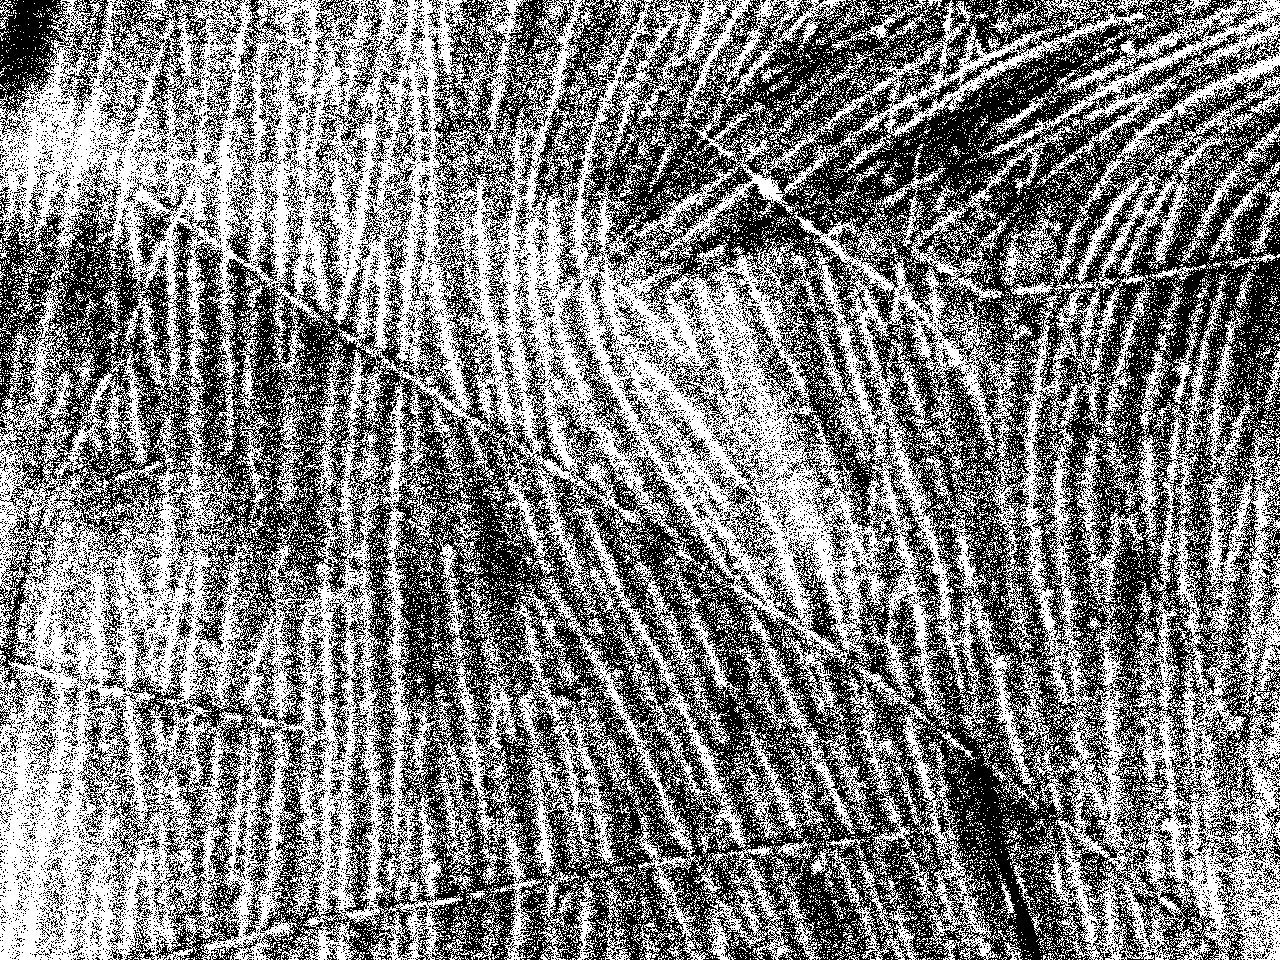
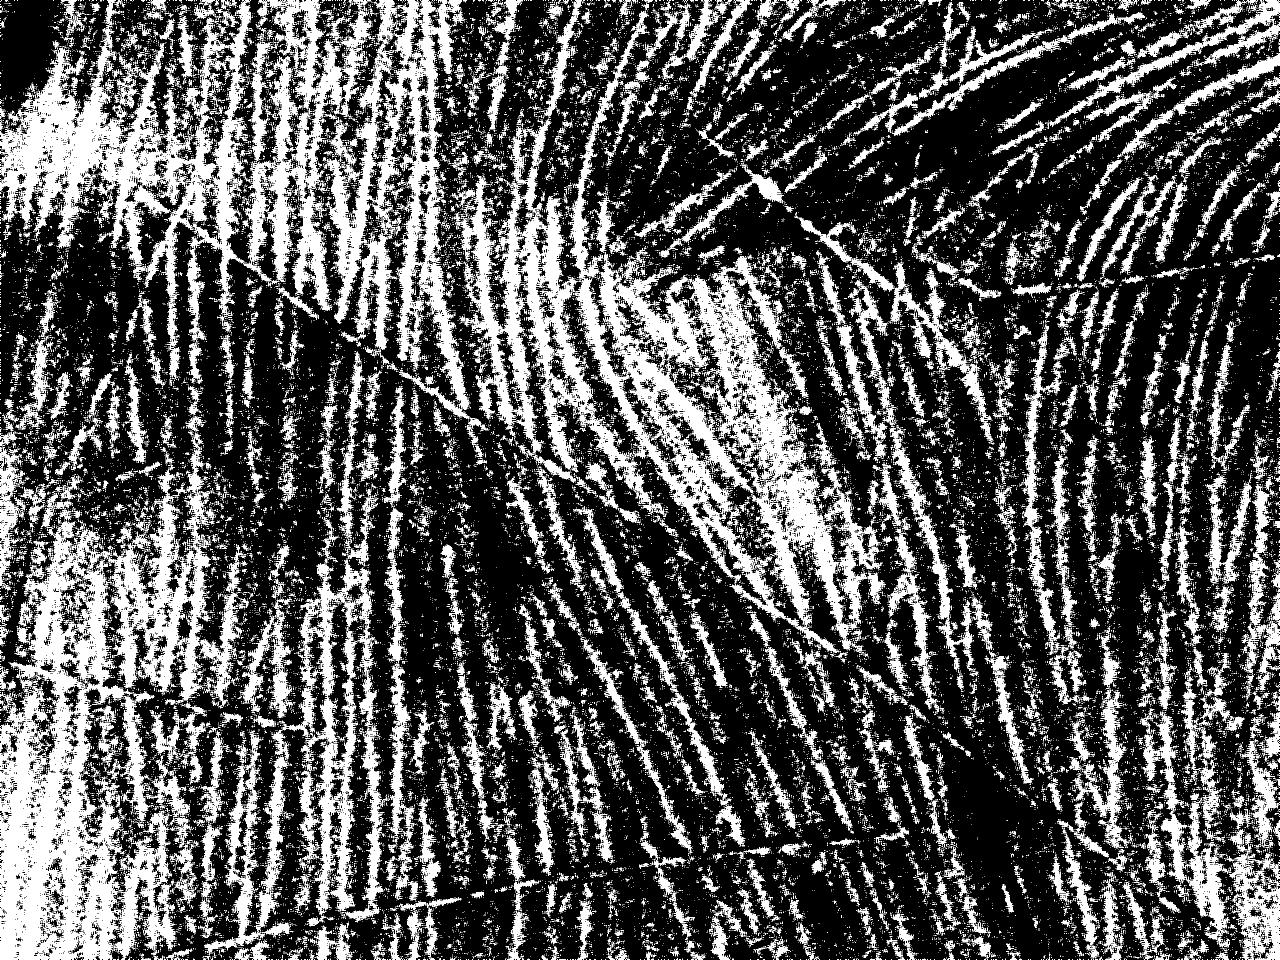
trying some new stuff

diff --git a/CNT Counter/src/drivers/UI.java b/CNT Counter/src/drivers/UI.java
@@ -4,7 +4,6 @@ import java.awt.Color;
 import java.awt.Component;
 import java.awt.Container;
 import java.awt.Dimension;
-import java.awt.FlowLayout;
 import java.awt.Font;
 import java.awt.GridLayout;
 import java.awt.Toolkit;
@@ -12,18 +11,13 @@ import java.awt.event.ActionEvent;
 import java.awt.event.ActionListener;
 import java.awt.event.ComponentEvent;
 import java.awt.event.ComponentListener;
-import java.awt.image.BufferedImage;
 import java.io.File;
-import java.io.IOException;
-import java.util.Scanner;
 
-import javax.imageio.ImageIO;
 import javax.swing.ImageIcon;
 import javax.swing.JButton;
 import javax.swing.JFileChooser;
 import javax.swing.JFrame;
 import javax.swing.JLabel;
-import javax.swing.JPanel;
 import javax.swing.JTextField;
 import javax.swing.SwingConstants;
 import javax.swing.SwingUtilities;
@@ -31,10 +25,7 @@ import javax.swing.UIManager;
 import javax.swing.UnsupportedLookAndFeelException;
 import javax.swing.WindowConstants;
 import javax.swing.filechooser.FileNameExtensionFilter;
-import javax.swing.filechooser.FileSystemView;
 
-import utils.CannyEdgeDetector;
-import utils.ImageUtils;
 import utils.TubeDetector;
 
 public class UI{
@@ -52,7 +43,7 @@ public class UI{
         fileButton.addActionListener(new ActionListener() {
 			@Override
 			public void actionPerformed(ActionEvent event) {
-				JFileChooser fc = new JFileChooser();
+				JFileChooser fc = new JFileChooser("C:\\Users\\quinn\\Documents\\git\\CNT Counter\\images");
 				fc.setDialogTitle("Open Image");
 				fc.setPreferredSize(new Dimension((int)(frame.getWidth() * 1.5), frame.getHeight()));
 				setFileChooserFont(fc.getComponents());
@@ -93,9 +84,8 @@ public class UI{
 					errorLabel.setForeground(Color.RED);
 					errorLabel.setText("<html><center>Strength must be a</center><center>nonnegative integer</center></html>");
 				} else {
-					errorLabel.setForeground(Color.BLACK);
-					errorLabel.setText("Working...");
 					int tubes = TubeDetector.density(file, strength);
+					errorLabel.setForeground(new Color(0, 153, 0));
 					errorLabel.setText("Density: " + tubes);
 				}
 			}
@@ -162,18 +152,15 @@ public class UI{
     	try {
 			UIManager.setLookAndFeel(UIManager.getSystemLookAndFeelClassName());
 		} catch (ClassNotFoundException e) {
-			// TODO Auto-generated catch block
 			e.printStackTrace();
 		} catch (InstantiationException e) {
-			// TODO Auto-generated catch block
 			e.printStackTrace();
 		} catch (IllegalAccessException e) {
-			// TODO Auto-generated catch block
 			e.printStackTrace();
 		} catch (UnsupportedLookAndFeelException e) {
-			// TODO Auto-generated catch block
 			e.printStackTrace();
 		}
+    	
     	SwingUtilities.invokeLater(new Runnable() {
             public void run() {
             	new UI();

diff --git a/CNT Counter/src/utils/TubeDetector.java b/CNT Counter/src/utils/TubeDetector.java
@@ -15,6 +15,9 @@ public class TubeDetector {
 		int width = img.getWidth();
 		int height = img.getHeight();
 		
+		Graphics2D g2d = img.createGraphics();
+		g2d.setColor(Color.blue);
+		
 		ArrayList<Integer> tubesPerRow = new ArrayList<Integer>();
 		for (int i = 2; i < height - 2; i++) {
 			int tubes = 0;
@@ -23,8 +26,11 @@ public class TubeDetector {
 				Color current = new Color(img.getRGB(j, i));
 				int curr = current.getRed();
 				if (curr < 100) {
-					if (inTube > 0) {
+					if (inTube > 2) {
 						tubes++;
+						if (tubesPerRow.size() == 800) {
+							g2d.fillRect(j - (inTube / 2), 0, 8, height);
+						}
 					}
 					inTube = 0;
 				} else {
@@ -33,6 +39,7 @@ public class TubeDetector {
 			}
 			tubesPerRow.add(tubes);
 		}
+		g2d.fillRect(0, 800, width, 5);
 		
 		return tubesPerRow.get(tubesPerRow.size() / 2);
 	}
@@ -56,7 +63,7 @@ public class TubeDetector {
 				if (curr < 100) {
 					if (inTube > 4) {
 						tubes++;
-						g2d.fillRect(j - (inTube / 2) - 3, i, 3, 15);
+						g2d.fillRect(j - (inTube / 2) - 1, i - 7, 3, 15);
 					}
 					inTube = 0;
 				} else {
@@ -91,23 +98,16 @@ public class TubeDetector {
 			e.printStackTrace();
 		}
 		
-		img = TubeDetector.drawTubes(img);
+		/*img = TubeDetector.drawTubes(img);
 		try {
 			ImageIO.write(img, "jpg", new File(file.getParent() + "//output2.jpg"));
 		} catch (IOException e) {
 			// TODO Auto-generated catch block
 			e.printStackTrace();
-		}
-		img = ImageUtils.medianFilter(img);
-		try {
-			ImageIO.write(img, "jpg", new File(file.getParent() + "//output3.jpg"));
-		} catch (IOException e) {
-			// TODO Auto-generated catch block
-			e.printStackTrace();
-		}
+		}*/
 		
 		//edge detection
-		CannyEdgeDetector detector = new CannyEdgeDetector();
+		/*CannyEdgeDetector detector = new CannyEdgeDetector();
 		detector.setSourceImage(img);
 		detector.setLowThreshold(2f);
 		detector.setHighThreshold(5f);
@@ -119,8 +119,15 @@ public class TubeDetector {
 		} catch (IOException e) {
 			// TODO Auto-generated catch block
 			e.printStackTrace();
+		}*/
+		int tubes = TubeDetector.detectTubes(img);
+		try {
+			ImageIO.write(img, "jpg", new File(file.getParent() + "//output3.jpg"));
+		} catch (IOException e) {
+			// TODO Auto-generated catch block
+			e.printStackTrace();
 		}
 		
-		return (int)Math.round(TubeDetector.detectTubes(edges) / 2 / size);
+		return (int)Math.round(tubes / size);
     }
 }

diff --git a/CNT Counter/src/drivers/Tester.java b/CNT Counter/src/drivers/Tester.java
@@ -1,13 +1,7 @@
 package drivers;
 
-import java.awt.Color;
-import java.awt.Graphics2D;
 import java.awt.image.BufferedImage;
-import java.io.File;
-import java.io.IOException;
 import java.util.Scanner;
-
-import javax.imageio.ImageIO;
 
 import utils.*;
 
@@ -19,14 +13,10 @@ public class Tester {
 		String file = in.next();
 		BufferedImage img = ImageUtils.readImage("images/" + file + ".jpg");
 		
-		img = ImageUtils.cutBottom(img);
-
-		try {
-			ImageIO.write(img, "jpg", new File("images/" + file + "_test.jpg"));
-		} catch (IOException e) {
-			// TODO Auto-generated catch block
-			e.printStackTrace();
-		}
+		img = ImageUtils.averageExposure(img);
+		img = ImageUtils.contrast(img);
+		
+		in.close();
 	}
 
 }
